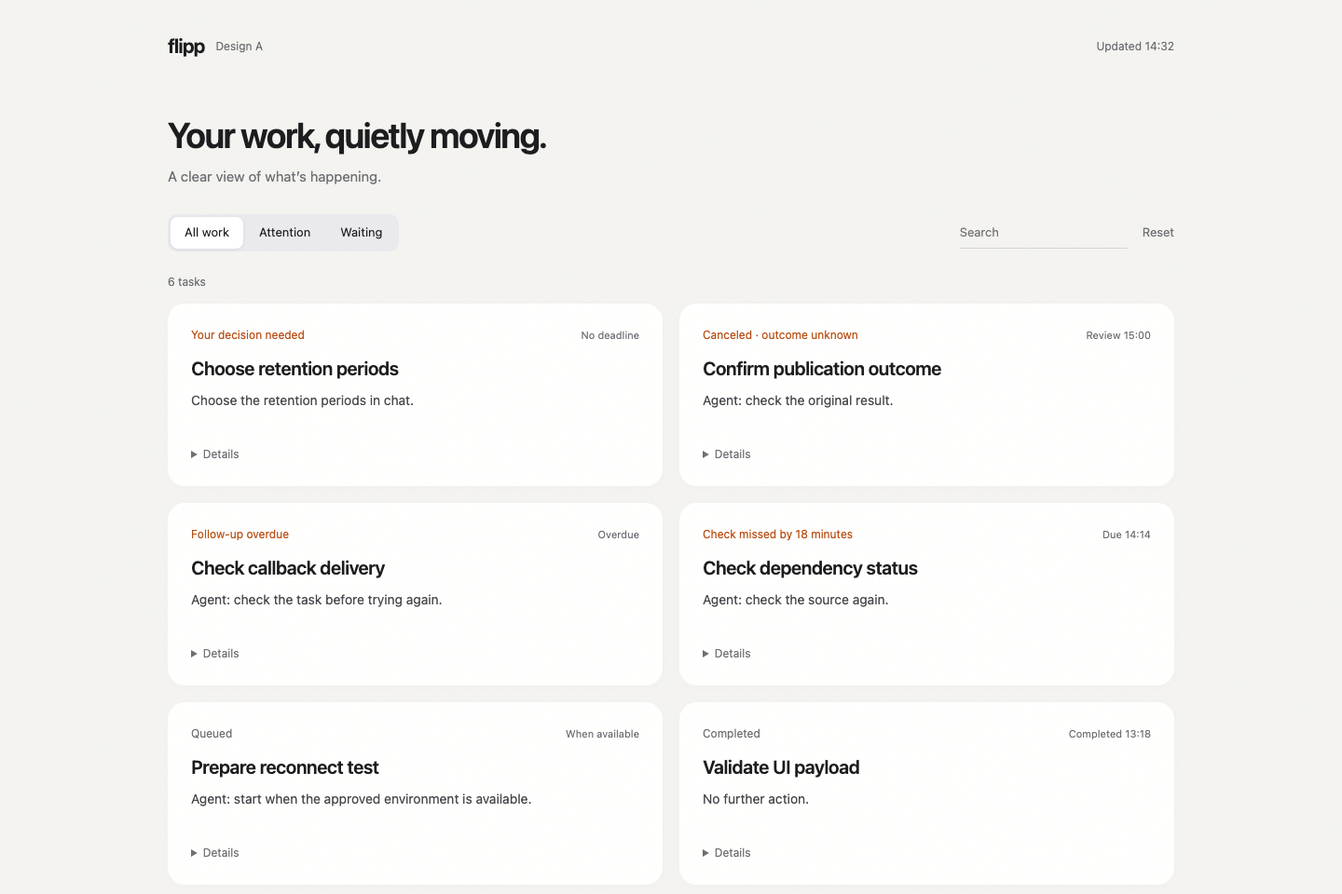
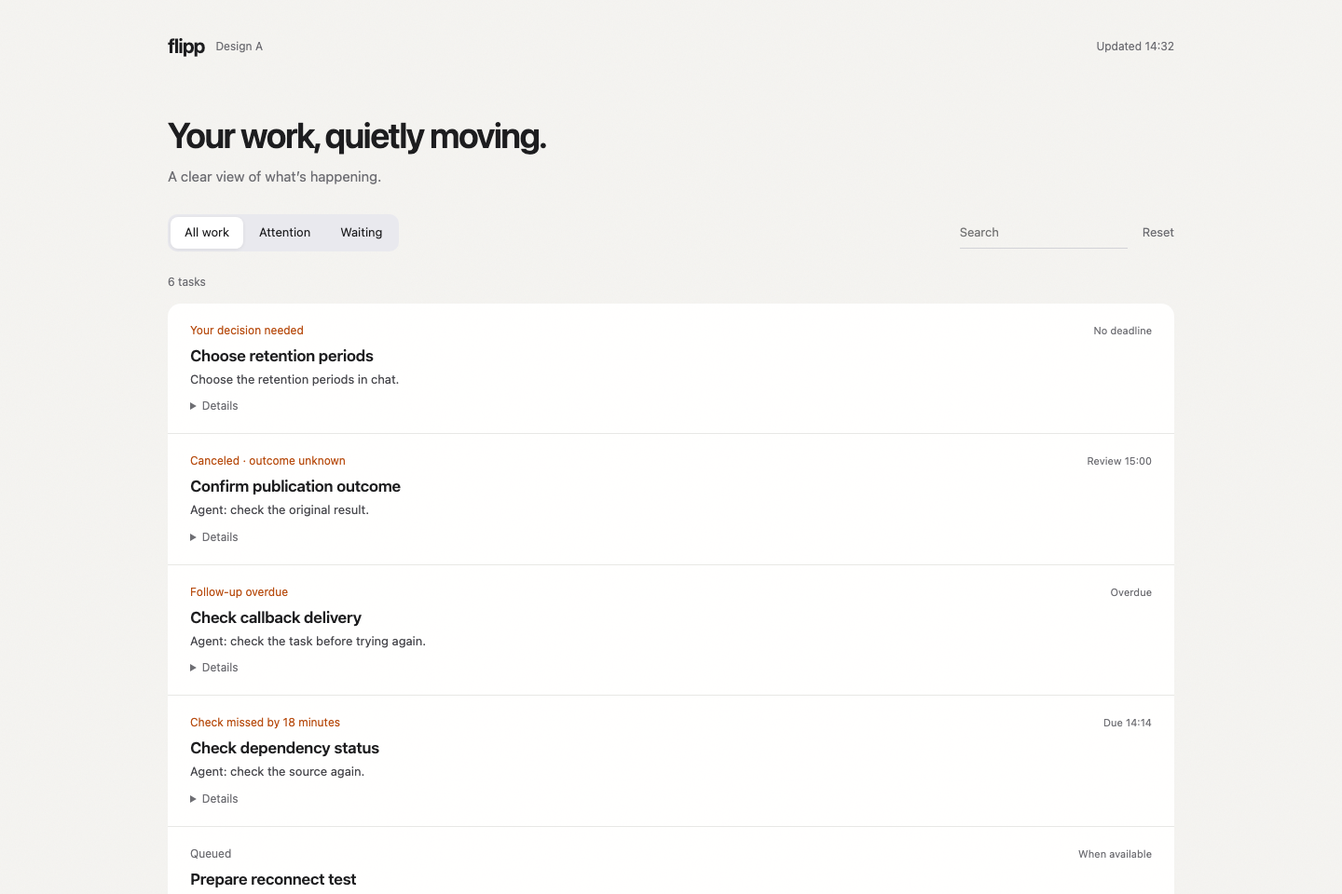
design: refine action list and define payload contracts

diff --git a/mockups/styles.css b/mockups/styles.css
@@ -2,14 +2,15 @@
 *{box-sizing:border-box}body{margin:0;background:#f5f5f7;color:var(--ink);font-size:15px;line-height:1.5}button,input{font:inherit}button{cursor:pointer;border:0;color:inherit}button:focus-visible,input:focus-visible,summary:focus-visible{outline:3px solid #b84e1260;outline-offset:4px}header{max-width:1160px;margin:auto;padding:34px 40px 20px;display:flex;align-items:center;gap:12px}.brand{font-size:21px;font-weight:650;letter-spacing:-.8px}.prototype-label{font-size:12px;color:var(--muted)}.freshness{margin-left:auto;font-size:12px;color:var(--muted)}.shell{max-width:1160px;margin:0 auto;padding:30px 40px 60px}.intro{margin-bottom:30px}.intro h1{font-size:38px;font-weight:600;letter-spacing:-1.5px;margin:0 0 5px}.intro p{margin:0;color:var(--muted)}.toolbar{display:flex;align-items:center;gap:16px;margin-bottom:24px;flex-wrap:wrap}.segments{display:flex;background:#e9e9ee;padding:3px;border-radius:10px;gap:2px}.segments button{background:transparent;padding:7px 15px;border-radius:8px;font-size:13px}.segments button[aria-pressed=true]{background:white;box-shadow:0 1px 4px #00000012}.search{margin-left:auto;width:180px;border:0;border-bottom:1px solid #d2d2d7;padding:7px 0;background:transparent;font-size:13px}.reset{padding:7px 0;background:transparent;color:var(--muted);font-size:13px}.layout{display:grid;grid-template-columns:1fr 1fr;gap:40px;align-items:start}.work-index{background:white;border-radius:18px;overflow:hidden}.list-heading{padding:20px 24px 10px;color:var(--muted);font-size:12px}.task-list{list-style:none;margin:0;padding:0 12px 12px}.task-row button{width:100%;padding:18px 12px;display:flex;text-align:left;align-items:center;gap:16px;background:transparent;border-radius:10px}.task-row button[aria-current=true]{background:#f5f5f7}.row-text{flex:1;min-width:0}.task-title{font-weight:550;font-size:15px}.task-status{color:var(--muted);font-size:13px;margin-top:4px}.task-status.attention{color:var(--accent)}.chevron{color:#a1a1a6;font-size:20px}.task-row+.task-row{border-top:1px solid #f0f0f3}.detail{padding:22px 4px;min-width:0}.eyebrow{color:var(--accent);font-size:12px;font-weight:600;margin-bottom:12px}.detail h2{font-size:28px;line-height:1.2;letter-spacing:-.8px;font-weight:600;margin:0 0 20px}.update{font-size:17px;line-height:1.55;margin:0 0 28px;max-width:440px}.next-label{font-size:12px;color:var(--muted);margin-bottom:5px}.next{font-size:15px;margin:0 0 24px}.human-note{font-size:12px;color:var(--muted);margin:0 0 30px}.disclosure{border-top:1px solid #dcdce1;padding:18px 0;margin-top:8px}.disclosure summary{cursor:pointer;font-size:13px;color:var(--muted);width:max-content}.facts{font-size:13px;margin:22px 0}.facts div{display:grid;grid-template-columns:115px 1fr;gap:12px;margin:12px 0}.facts dt{color:var(--muted)}.facts dd{margin:0}.evidence{font-size:13px;margin:20px 0}.evidence small{display:block;color:var(--muted);margin-top:6px}.history{list-style:none;padding:0;margin:24px 0}.history li{font-size:13px;display:grid;grid-template-columns:80px 1fr;gap:15px;padding:10px 0}.history time{color:var(--muted);font-size:12px}.history small{display:block;color:var(--muted);margin-top:3px}.empty{padding:24px;font-size:14px;color:var(--muted)}.footer-note{font-size:11px;color:var(--muted);margin-top:25px}.focus-view .layout{grid-template-columns:360px 1fr;gap:64px}.focus-view .work-index{background:transparent}.focus-view .list-heading{padding-left:12px}.focus-view .task-list{padding-left:0;padding-right:0}.focus-view .task-row button[aria-current=true]{background:#fff}.focus-view .detail{background:white;border-radius:18px;padding:32px}.focus-view .detail h2{font-size:32px}.focus-view .update{font-size:19px}.sr-only{position:absolute;width:1px;height:1px;overflow:hidden;clip:rect(0,0,0,0)}
 body[data-variant=a]{background-color:#f5f4f1;background-image:url("texture.svg")}
 .card-count{font-size:12px;color:var(--muted);margin-bottom:14px}
-.action-grid{display:grid;grid-template-columns:repeat(2,minmax(0,1fr));gap:18px;padding:0;align-items:start}
-.action-card{background:#ffffffed;border:1px solid #ffffff;border-radius:18px;padding:24px;box-shadow:0 2px 12px #34302704;min-width:0}
+.action-grid{display:block;padding:0;background:#ffffffed;border-radius:14px;overflow:hidden}
+.action-card{background:transparent;border:0;border-radius:0;padding:20px 24px;box-shadow:none;min-width:0}
+.action-card+.action-card{border-top:1px solid #e8e8e5}
 .card-top{display:flex;align-items:baseline;justify-content:space-between;gap:12px}
 .card-top .task-status{font-size:12px;margin:0}
 .card-time{font-size:11px;color:var(--muted);white-space:nowrap}
-.action-card h2{font-size:20px;font-weight:600;letter-spacing:-.4px;margin:14px 0 10px;line-height:1.3}
-.card-next{font-size:14px;margin:0;color:#48484d;min-height:42px}
-.card-disclosure{margin-top:18px}
+.action-card h2{font-size:17px;font-weight:600;letter-spacing:-.2px;margin:7px 0 5px;line-height:1.3}
+.card-next{font-size:13px;margin:0;color:#48484d;min-height:0}
+.card-disclosure{margin-top:10px}
 .card-disclosure summary{font-size:12px;color:var(--muted);cursor:pointer;width:max-content}
 .card-update{font-size:15px;margin:22px 0 10px}
 .card-scope{font-size:12px;color:var(--muted)}

diff --git a/docs/PRD.md b/docs/PRD.md
@@ -1,6 +1,6 @@
 # flipp Work Ledger PRD
 
-Version 0.6 · 8 October 2026 · For review
+Version 0.7 · 8 October 2026 · For review
 
 ## Product direction
 
@@ -62,16 +62,16 @@ Proposed pilot guardrails are one owner, one primary assistant identity, at most
 
 ## Owner experience
 
-The default view presents one compact card per action. Its face shows a title, plain-language state or attention cue, one next step, and the relevant time. Canonical state remains unchanged in the ledger. Sorting makes overdue checks and unresolved blockers easy to find without invented urgency.
+The default view presents one compact row per action in a continuous list. Each row shows a title, plain-language state or attention cue, one next step, and the relevant time. Canonical state remains unchanged in the ledger. Sorting makes overdue checks and unresolved blockers easy to find without invented urgency.
 
-Details expand within the card to show a short explanation, scope, evidence, and history. Evidence observation time is separate from view refresh time. Technical IDs, versions, leases, and approval references belong in the authenticated agent payload. Blockers, missed checks, and uncertain outcomes remain visible on the card face. The interface works on a narrow screen and supports keyboard navigation.
+Details expand within the row to show a short explanation, scope, evidence, and history. Evidence observation time is separate from view refresh time. Technical IDs, versions, leases, and approval references belong in the authenticated agent payload. Blockers, missed checks, and uncertain outcomes remain visible in the collapsed row. The interface works on a narrow screen and supports keyboard navigation.
 
 The initial interface is read-only apart from navigation and filtering. Requests to change scope, pause work, resume work, or cancel go through chat. A conversation link may be shown only when a supported, verified link exists.
 
 ### Interface requirements
 
 - Use a compact, neutral, evidence-first layout rather than oversized metric cards or decorative charts. A restrained orange accent may identify selection or attention, but color is never the only state cue.
-- Make each card useful without interaction: title, truthful state summary, one next step, relevant time, and any material exception.
+- Make each row useful without interaction: title, truthful state summary, one next step, relevant time, and any material exception.
 - Put the explanation, task scope, evidence provenance, and history in optional Details. Keep technical coordination metadata in the authenticated agent payload. Distinguish evidence observation time from view refresh time; material uncertainty and stale projection warnings stay visible without disclosure.
 - Preserve the canonical state names: Queued, Running, Waiting externally, Blocked, Completed, and Canceled. Show stale or expired claims, missed checks, delivery failures, and uncertain outcomes as explicit qualifiers rather than inventing new canonical states.
 - A canceled task with an uncertain external outcome remains Canceled. The interface may show its read-only reconciliation status but cannot imply that work resumed or the external action was reversed.
@@ -83,6 +83,99 @@ The initial interface is read-only apart from navigation and filtering. Requests
 The initial design exploration compares two views using identical synthetic state semantics: a compact ledger list with adjacent details, and a focused attention queue with chronological work history. The prototypes are review artifacts, not production UI or evidence that A2UI is integrated.
 
 The detailed presentation policy, priority rules, state-driven changes, and mockup interpretation are specified in [Agent-driven UI experience](AGENT_UI_EXPERIENCE.md).
+
+### Agent and human payload contract
+
+This is the normative v1 read contract. The list/card surface, human Details, agent MCP view, and event notification are distinct projections of one canonical ledger. They do not maintain separate task state. A collapsed row is the current card presentation.
+
+| View | Intended recipient | Permitted content |
+| --- | --- | --- |
+| `card` | Authenticated owner browser | Title, truthful status summary, next step, relevant time, visible material warnings |
+| `details` | Authenticated owner browser after disclosure | Human explanation, scope summary, evidence provenance and observation times, minimized chronology |
+| `agent` | Authenticated, owner-scoped MCP principal | Coordination record below: canonical state, revisions, constraints, claims, dependencies, evidence, recovery context |
+| Event | Authorized subscriber | Tiny wake notification only; fetch the current task before acting |
+
+Server authorization derives owner and caller principal from authenticated context. A caller cannot set either in a query or payload. Each view independently enforces owner, operation, and field-level access; asking for `agent` does not grant privileges. Agent-only means intended audience, not secret or trusted instructions. Task text and evidence remain untrusted data. No payload grants external tool access or replaces action-time approval.
+
+The browser must not receive the agent record and merely hide it with CSS, a closed disclosure, client JavaScript, or an A2UI model. It receives only the authorized human projection. Opaque references resolve through separately authorized queries; no raw source bodies, private contacts, signed URLs, tokens, passwords, cookies, or signing secrets appear in any projection.
+
+#### Types and envelope
+
+`Id` is an opaque nonempty string. `Revision` is a nonnegative integer (`record_version`, scope and completion revisions start at 1). `Instant` is an RFC 3339 UTC timestamp with `Z`. `Ref` is an opaque reference ID, never an embedded credential or signed URL. Strings are bounded, redacted text. `State` is exactly Queued, Running, Waiting externally, Blocked, Completed, or Canceled.
+
+All fields below are required unless marked **optional**. A nullable field must be present: null means unknown, not set, or not applicable, with its exact reason in `field_status`. Null is never zero, false, empty evidence, or authorization. An empty array means a known empty collection; unavailable collections must fail the query or be explicitly marked incomplete. Missing required nonnullable fields fail validation rather than being fabricated.
+
+| Field | Type / rule | Source owner |
+| --- | --- | --- |
+| `contract_version` | String, initially `1.0` | API contract registry |
+| `view` | Enum `card \| details \| agent` | Authorized query handler |
+| `task_id` | Id | Canonical Task |
+| `record_version` | Integer >= 1 | Canonical Task |
+| `source_sequence` | Revision | Committed audit sequence used by projection |
+| `projected_at` | Instant | Server query/projection builder |
+| `freshness` | Object: `status: current \| stale \| unknown`, `reason: string|null` | Server comparison with requested canonical version |
+| `field_status` | Array of `{path: string, reason: unknown \| not_set \| not_applicable \| incomplete}` | Projection validation |
+| `data` | Object matching the selected view below | Authorized canonical query |
+| `extensions` | Object, **optional**; namespaced, bounded, non-authoritative | Versioned API extensions |
+
+All returned fields are read-only snapshots. Human summaries are deterministic derivations, not editable task fields. Only named domain commands may alter canonical state; immutable scope revisions and append-only observations retain history. The source-owner column names the module responsible for the fact, not a caller-supplied owner identity.
+
+#### Agent coordination record (`data` for `view: agent`)
+
+| Field | Type / required children | Source owner and mutation rule |
+| --- | --- | --- |
+| `title`, `state` | String; State | Task module; title via scoped revision, state via validated transition |
+| `provenance` | `created_at: Instant`, `created_by_principal_id: Id`, `instruction_ref: Ref` | Server-attributed creation; no copied chat |
+| `scope` | `revision: Revision>=1`, `summary: string`, `approval_ref: Ref|null`, `allowed_action_classes: string[]`, `allowed_destination_refs: Ref[]`, `limits: {name:string,value:number,unit:string}[]` | Scope/policy module; immutable revision. No approval reference means relevant execution is blocked, not implicitly approved |
+| `completion` | `revision: Revision>=1`, `condition: string`, `accepted_observation_ids: Id[]`, `verified_by_principal_id: Id|null`, `verified_at: Instant|null` | Assistant verifies external result; ledger validates attribution, structure, revisions, and transition. Database receipt does not prove real-world completion |
+| `next_action` | `kind: execute \| observe \| owner_decision \| reconcile_readonly \| none`, `summary: string`, `resolver: agent \| owner \| external \| none` | Task policy/query; descriptive, not executable instructions or permission |
+| `timing` | `eligible_at: Instant|null`, `deadline_at: Instant|null`, `next_check_at: Instant|null`, `last_check_at: Instant|null`, `local_schedule: {time_zone:string,expression:string}|null` | Schedule module; UTC instants plus original IANA zone/local expression for local schedules. Explicit DST ambiguity handling |
+| `relationships` | `parent_task_id: Id|null`, `dependencies: Dependency[]`, `join: Join|null` | Dependency module; v1 parent/join null when unused. Future extension cannot widen scope or silently complete parent |
+| `ownership` | `assigned_principal_id: Id|null`, `active_claim: Claim|null`, `last_attempt: Attempt|null` | Server task/attempt modules; identity derived from authentication, never caller-chosen actor |
+| `cancellation` | `revision: Revision`, `canceled_at: Instant|null`, `reason: string|null`, `future_work_allowed: boolean` | Cancel command/policy; Canceled is terminal, invalidates claims/wakes. Never implies rollback |
+| `outcome` | `status: not_observed \| pending \| verified_success \| verified_failure \| uncertain`, `summary: string`, `observed_at: Instant|null` | Accepted observation; unknown acceptance remains uncertain |
+| `evidence` | `Observation[]` | Observation module; append-only, attributable, revision-bound, redacted |
+| `reconciliation` | `status: not_needed \| due \| waiting \| resolved`, `mode: none \| read_only`, `next_check_at: Instant|null`, `reason: string|null` | Recovery policy; canceled work cannot resume through reconciliation |
+| `qualifiers` | Array of `{reason_code:string, summary:string, observed_at:Instant|null, due_at:Instant|null}` | Deterministic diagnostics; expired claim, missed check, blocker, delivery failure, uncertainty |
+| `delivery` | `status: not_configured \| healthy \| delayed \| failed \| unknown`, `last_event_id: Id|null`, `last_delivered_at: Instant|null`, `next_retry_at: Instant|null` | Outbox module; delivery health is not task progress |
+| `audit` | `latest_sequence: Revision`, `history_ref: Ref` | Append-only audit; paginated, independently authorized history |
+
+Nested types are also required contracts:
+
+- `Dependency`: `task_id: Id`, `required_state: State`, `required_scope_revision: Revision>=1`, `required_completion_revision: Revision>=1`, `status: pending|satisfied|blocked`, `accepted_observation_ids: Id[]`. Reject cycles; a changed child revision invalidates outdated acceptance.
+- `Join`: `policy: all_required`, `required_child_task_ids: Id[]`, `status: pending|satisfied|blocked`, `accepted_observation_ids: Id[]`. Future-only; completion requires current-revision proof from every required child.
+- `Claim`: `attempt_id: Id`, `run_id: Id`, `principal_id: Id`, `fencing_generation: Revision>=1`, `lease_expires_at: Instant`, `scope_revision: Revision>=1`, `completion_revision: Revision>=1`, `cancellation_revision: Revision`. An expired claim may be returned for diagnosis but cannot authorize a write.
+- `Attempt`: `attempt_id: Id`, `run_id: Id`, `principal_id: Id`, `fencing_generation: Revision>=1`, `status: claimed|started|waiting|finished|stale|canceled`, `started_at: Instant|null`, `finished_at: Instant|null`, `scope_revision: Revision>=1`, `completion_revision: Revision>=1`, `cancellation_revision: Revision`. Claimed does not mean started.
+- `Observation`: `observation_id: Id`, `attempt_id: Id|null`, `kind: fact|blocker|completion_proof|uncertain_outcome|reconciliation`, `summary: string`, `evidence_ref: Ref|null`, `author_principal_id: Id`, `observed_at: Instant`, `recorded_at: Instant`, `scope_revision: Revision>=1`, `completion_revision: Revision>=1`, `acceptance: pending|accepted|rejected`. An observation is attributed, not automatically verified truth.
+
+#### Human projections
+
+`card.data` requires `title: string`, `status_summary: string`, `next_step: string`, `resolver: agent|owner|external|none`, `relevant_time: {label:string,at:Instant|null}`, and `warnings: {reason_code:string,text:string}[]`. The canonical task state remains unchanged; summaries map from documented state/qualifier fields. Material blockers, stale projection, missed checks, and uncertain canceled outcomes must survive this projection without expanding Details. Relevant time null means no deadline or dependency timing, as labeled.
+
+`details.data` requires `card` (the same card projection), `explanation: string`, `scope_summary: string`, `evidence: {summary:string,source_label:string,observed_at:Instant,recorded_at:Instant}[]`, `last_check_at: Instant|null`, and `history: {at:Instant,label:string,summary:string}[]`. Evidence observation time and envelope projection time are distinct. Human Details excludes IDs, revisions, leases, approval references, capabilities, fencing, and internal diagnostic payloads. Its entries are minimized and authorized, not a raw audit dump.
+
+#### Events, compatibility, and consistency
+
+The event body is separate: `contract_version: string`, `event_id: Id`, `name: task.needs_attention`, `task_id: Id`, `record_version: integer>=1`, `attention_generation: Revision`, `reason_code: string`, `occurred_at: Instant`. Authentication/signature belongs to the verified transport, never task JSON. Events omit full task, evidence, claim, scope, and human projections. A wake is a hint to fetch, not completion proof or authority.
+
+Unknown major contract versions fail closed. Minor versions may add optional fields only; required fields, state meanings, null meanings, or field types require a major version. Readers may ignore unknown optional extensions but must reject unknown state/action enum values that affect safety. No missing field may be supplied by a model guess.
+
+Queries use stable source versions and pagination. A projection behind a requested record version is explicitly stale or rejected; it cannot claim to be current. Clients discard older record versions and source sequences, and cannot combine card and Details from different task versions. A scope change invalidates cached scope and completion assumptions and requires a fresh authorized fetch.
+
+The read payload is not a write request. Mutations separately require `contract_version`, `expected_record_version`, `idempotency_key`, and `canonical_input_hash`; claim-bound writes also require current run/fencing and scope/completion/cancellation revisions. Server recomputes hashes and derives identity. Same key/input returns the stored receipt; changed input with the same key fails. Stale writes fail without partial mutation. No UI disclosure can initiate a mutation.
+
+The [public synthetic JSON example](../mockups/agent-payload.example.json) follows this agent read contract. Example values establish no approval, integration, or backend implementation.
+
+#### Contract acceptance cases
+
+1. Reject missing required fields, invalid types/enums, unexplained nulls, unknown major versions, and unsupported required extensions.
+2. Wrong-owner, revoked, and unauthorized-view requests fail without revealing resource existence. Caller-supplied owner/principal cannot widen access.
+3. Projection allowlist tests show browser HTML, network responses, client state, and A2UI model/actions contain no agent-only metadata or secrets.
+4. Card and Details agree with the same task version; stale projection and evidence age cannot be relabeled fresh. Older updates cannot replace newer state.
+5. Scope/completion changes invalidate earlier proof and cached action assumptions. Stale record/fence/revision writes fail; duplicate command receipts remain stable.
+6. Canceled-with-uncertainty remains visibly canceled and uncertain; no claim, retry, or resumption follows disclosure or read-only reconciliation.
+7. Events contain only the minimal notification contract. Delivery and callback receipt never become task completion.
+8. The assistant's verified outcome and attributable current-revision evidence are required for completion; database presence alone cannot pass.
 
 ### Task states
 

diff --git a/docs/AGENT_UI_EXPERIENCE.md b/docs/AGENT_UI_EXPERIENCE.md
@@ -25,18 +25,18 @@ The page keeps four stable regions even as work changes:
 
 1. **Context bar:** quiet product name and view update time.
 2. **Presentation controls:** a small view switcher, search, and reset.
-3. **Action cards:** title, plain-language state, next step, and relevant time.
-4. **Progressive disclosure:** explanation, scope, evidence, and history expand inside the card without replacing the page.
+3. **Action list:** title, plain-language state, next step, and relevant time per row.
+4. **Progressive disclosure:** explanation, scope, evidence, and history expand inside the row without replacing the page.
 
 The human surface answers what happened, whether the owner needs to act, and what happens next. It uses system typography, generous spacing, neutral surfaces, few borders, and small orange attention cues. No raw IDs, leases, revision numbers, payloads, audit tables, or repeated freshness labels appear by default.
 
-Blockers, missed checks, and uncertain outcomes remain explicit on the card face. Scope, evidence observation time, and chronology are available in Details. A stale projection warning is always visible when applicable; a fresh page cannot imply fresh evidence. Human-friendly labels are deterministic mappings and never overwrite canonical state.
+Blockers, missed checks, and uncertain outcomes remain explicit in collapsed rows. Scope, evidence observation time, and chronology are available in Details. A stale projection warning is always visible when applicable; a fresh page cannot imply fresh evidence. Human-friendly labels are deterministic mappings and never overwrite canonical state.
 
 ### Separate agent payload
 
 An authenticated agent query returns a versioned coordination payload containing canonical state and revision, scope and completion revisions, approval references, ownership and claim validity, dependencies, due times, next check, action constraints, evidence references and observation times, delivery health, audit sequence, projection time, and missing-field warnings. The agent uses this payload to inspect and coordinate work. The human renderer receives a smaller presentation projection.
 
-These are distinct authorized query contracts, not two stores. Hiding content in a card is a presentation choice, not a security boundary. Server authorization and owner-scoped MCP queries enforce access. Private agent payloads are not embedded in HTML, returned through A2UI action context, or placed in client source. The static prototypes use public synthetic fixtures only. [Example agent payload](../mockups/agent-payload.example.json) illustrates the contract and explicitly marks unknown fields; it is not a backend endpoint.
+These are distinct authorized query contracts, not two stores. Hiding content in a disclosure is a presentation choice, not a security boundary. Server authorization and owner-scoped MCP queries enforce access. Private agent payloads are not embedded in HTML, returned through A2UI action context, or placed in client source. The static prototypes use public synthetic fixtures only. The [normative PRD payload contract](PRD.md#agent-and-human-payload-contract) controls the [synthetic example](../mockups/agent-payload.example.json); the example is not a backend endpoint.
 
 Desktop may place the work index beside inspection. Mobile stacks the same regions in the same reading order. State changes update labels, qualifiers, next action, and chronology within those regions; they do not replace the whole application shell, open a surprise modal, or move essential evidence to a new location.
 
@@ -97,7 +97,7 @@ MCP Events remains the wake path. A2UI changes presentation only after a current
 
 ### A · Compact ledger
 
-The selected direction: one compact card per action, on a subtle textured neutral background. Two columns on desktop become one on mobile. Card faces carry only the information needed to understand the work and next step; Details expands explanation and evidence. Technical agent metadata stays outside the human surface.
+The selected direction: one continuous list on a subtle textured neutral background. Each action occupies a compact row separated by a quiet divider, on both desktop and mobile. Rows carry only the information needed to understand the work and next step; Details expands explanation and evidence within the row. Technical agent metadata stays outside the human surface.
 
 ### B · Attention and chronology
 

diff --git a/docs/SYSTEM_DESIGN.md b/docs/SYSTEM_DESIGN.md
@@ -1,6 +1,6 @@
 # flipp Work Ledger system design
 
-Version 0.3 · 8 October 2026 · For review
+Version 0.4 · 8 October 2026 · For review
 
 ## Status and intent
 
@@ -181,6 +181,10 @@ The MCP server exposes ledger operations only. Each mutation request contains `c
 Queries return canonical version numbers and `observed_at` separately from response time. The UI shows evidence age, stale claims, due or missed checks, and delivery health explicitly. Read endpoints may use derived projections for speed, but a projection exposes its source sequence and cannot answer as current if it is behind the requested version.
 
 ### Deterministic presentation model
+
+The [PRD payload contract](PRD.md#agent-and-human-payload-contract) is normative for field names, types, required/null semantics, and view allowlists. Agent queries return the coordination record in a versioned envelope; card/list and Details queries return their distinct human projections. All derive from one authorized canonical snapshot. Event bodies remain the separate minimal notification contract. Server modules own returned facts; no caller chooses owner or actor.
+
+The server must validate the requested view against authenticated owner and principal access, use explicit projection allowlists, and never send the agent record to the browser for client-side hiding. Unknown major versions, missing required fields, stale requested versions, and mismatched scope/fencing revisions fail as specified in the PRD. Cached card and Details versions must match. The synthetic example is contract documentation only; it is not an endpoint or proof of compatibility.
 
 The query layer builds one bounded, deterministic `TaskPresentation` projection before any conventional template or generated UI adapter runs. It contains canonical state, explicit qualifiers, next action, scope summary, evidence references and observation times, page projection time, dependency summaries, and chronological audit items. It never contains source bodies, credentials, signed URLs, contact records, execution-environment discovery, or arbitrary instructions.
 

diff --git a/mockups/README.md b/mockups/README.md
@@ -2,7 +2,7 @@
 
 These static prototypes compare two read-only interface directions using the same synthetic task data:
 
-- [Variant A: action cards](variant-a-ledger.html) — the selected direction: one quiet card per action, with explanation and evidence in Details.
+- [Variant A: action list](variant-a-ledger.html) — the selected direction: compact rows in one continuous list, with explanation and evidence in Details.
 - [Variant B: attention](variant-b-attention.html) — a comparison direction with a short queue and selected update.
 
 The human surface shows only the information needed to understand work and its next step. [The synthetic agent payload example](agent-payload.example.json) retains coordination fields for an authorized agent query. Hidden UI is not access control: a real implementation must keep that payload server-side and enforce owner-scoped authorization.
